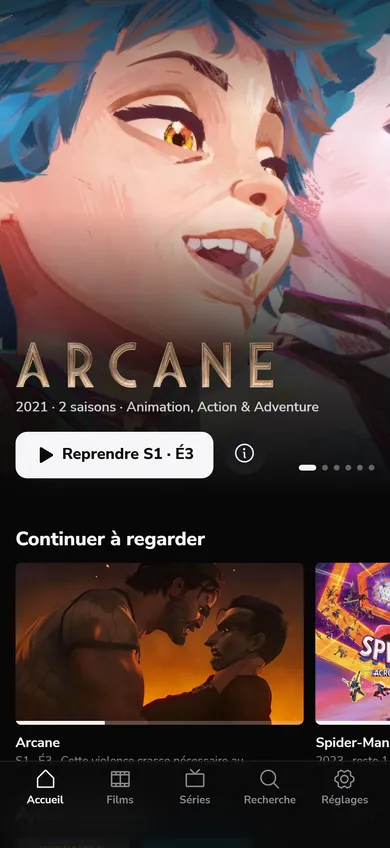
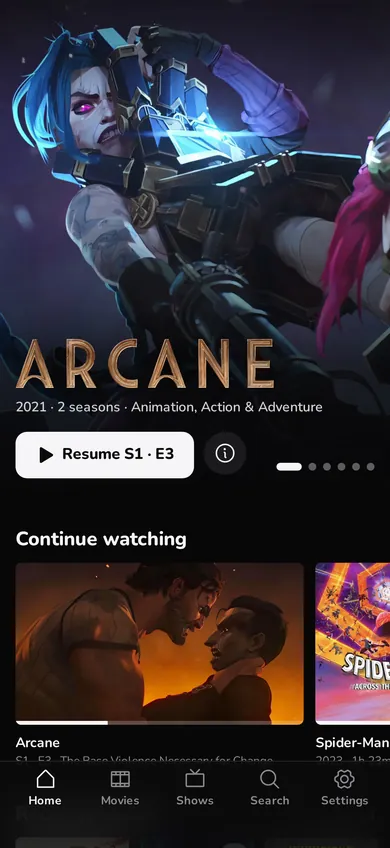
Site: the README's new English captures, Arcane's Home in the opening window
images.py leaves the README's still out: the opening keeps its own Piltover
illustration. Share cards redrawn from the new Home.

Claude-Session: https://claude.ai/code/session_012iLBHyQRRP69qbd1a2xrXm

diff --git a/site/en/index.html b/site/en/index.html
@@ -17,7 +17,7 @@
   <meta property="og:title" content="Mira: your Jellyfin library, like at the movies">
   <meta property="og:description" content="A free Jellyfin client for Windows, Mac, iPhone and Android. No account, no ads, and nothing leaves your server.">
   <meta property="og:url" content="https://miracinema.app/en/">
-  <meta property="og:image" content="https://miracinema.app/img/share-en.jpg?v=c2b7f2cbe6">
+  <meta property="og:image" content="https://miracinema.app/img/share-en.jpg?v=ecae6bff77">
   <meta property="og:image:width" content="1200">
   <meta property="og:image:height" content="630">
   <meta property="og:locale" content="en_US">
@@ -60,7 +60,7 @@
           </ul>
         </div>
         <div class="devices">
-          <img class="window" src="../img/windows-film-1600.webp" srcset="../img/windows-film-960.webp 960w, ../img/windows-film-1600.webp 1600w, ../img/windows-film-2400.webp 2400w" sizes="(max-width: 860px) 92vw, 56vw" width="2880" height="1800" alt="A film’s page in Mira for Windows, with Resume. The screenshots show the French interface.">
+          <img class="window" src="../img/windows-home-1600.webp" srcset="../img/windows-home-960.webp 960w, ../img/windows-home-1600.webp 1600w, ../img/windows-home-2400.webp 2400w" sizes="(max-width: 860px) 92vw, 56vw" width="2880" height="1800" alt="The Home page of Mira for Windows, with Arcane to resume">
           <div class="phone one" aria-hidden="true"><div class="screen"><img src="../img/web-home-720.webp" srcset="../img/web-home-390.webp 390w, ../img/web-home-720.webp 720w" sizes="(max-width: 860px) 32vw, 16vw" width="1206" height="2622" alt=""></div></div>
           <div class="phone two" aria-hidden="true"><div class="screen"><img src="../img/web-film-720.webp" srcset="../img/web-film-390.webp 390w, ../img/web-film-720.webp 720w" sizes="(max-width: 860px) 32vw, 16vw" width="1206" height="2622" alt=""></div></div>
         </div>

diff --git a/site/index.html b/site/index.html
@@ -17,7 +17,7 @@
   <meta property="og:title" content="Mira : ta bibliothèque Jellyfin, comme au cinéma">
   <meta property="og:description" content="Un client Jellyfin gratuit pour Windows, Mac, iPhone et Android. Sans compte, sans publicité, et rien ne quitte ton serveur.">
   <meta property="og:url" content="https://miracinema.app/">
-  <meta property="og:image" content="https://miracinema.app/img/share.jpg?v=827014fae3">
+  <meta property="og:image" content="https://miracinema.app/img/share.jpg?v=099fd6a0dd">
   <meta property="og:image:width" content="1200">
   <meta property="og:image:height" content="630">
   <meta property="og:locale" content="fr_FR">
@@ -60,7 +60,7 @@
           </ul>
         </div>
         <div class="devices">
-          <img class="window" src="img/windows-film-1600.webp" srcset="img/windows-film-960.webp 960w, img/windows-film-1600.webp 1600w, img/windows-film-2400.webp 2400w" sizes="(max-width: 860px) 92vw, 56vw" width="2880" height="1800" alt="La fiche d’un film dans Mira pour Windows, avec Reprendre">
+          <img class="window" src="img/windows-home-1600.webp" srcset="img/windows-home-960.webp 960w, img/windows-home-1600.webp 1600w, img/windows-home-2400.webp 2400w" sizes="(max-width: 860px) 92vw, 56vw" width="2880" height="1800" alt="L’Accueil de Mira pour Windows, avec Arcane à reprendre">
           <div class="phone one" aria-hidden="true"><div class="screen"><img src="img/web-home-720.webp" srcset="img/web-home-390.webp 390w, img/web-home-720.webp 720w" sizes="(max-width: 860px) 32vw, 16vw" width="1206" height="2622" alt=""></div></div>
           <div class="phone two" aria-hidden="true"><div class="screen"><img src="img/web-film-720.webp" srcset="img/web-film-390.webp 390w, img/web-film-720.webp 720w" sizes="(max-width: 860px) 32vw, 16vw" width="1206" height="2622" alt=""></div></div>
         </div>

diff --git a/tools/site/images.py b/tools/site/images.py
@@ -1,5 +1,6 @@
-"""Images of the showcase site (site/img) from the README's screenshots and the featured film's still (film-still.jpg):
-WebP at three widths (the share cards: tools/site/share.mjs).
+"""Images of the showcase site (site/img) from the README's screenshots: WebP at three widths (the share cards:
+tools/site/share.mjs). The opening's still (site/img/film-still-*.webp, Piltover, given by ogsas) is the site's own:
+the README's film-still.jpg is left out.
 
 Run from the repository's root after gallery.yml has refreshed docs/screenshots/readme: python3 tools/site/images.py
 """
@@ -8,14 +9,14 @@ from PIL import Image
 
 SOURCE = Path("docs/screenshots/readme")
 OUT = Path("site/img")
-WIDTHS = {"windows": (960, 1600, 2400), "web": (390, 720, 1080), "film": (640, 1280, 2000)}
-# The still fills the screen: its largest copy keeps its own width (2000, never resampled) and less compression.
-QUALITY = {"film": 90}
+WIDTHS = {"windows": (960, 1600, 2400), "web": (390, 720, 1080)}
 
 OUT.mkdir(parents=True, exist_ok=True)
 for path in sorted(SOURCE.glob("*.jpg")):
     image = Image.open(path).convert("RGB")
     kind = path.stem.split("-")[0]
+    if kind not in WIDTHS:
+        continue
     for width in WIDTHS[kind]:
         copy = image.resize((width, round(image.height * width / image.width)), Image.LANCZOS)
-        copy.save(OUT / f"{path.stem}-{width}.webp", "WEBP", quality=QUALITY.get(kind, 80), method=6)
+        copy.save(OUT / f"{path.stem}-{width}.webp", "WEBP", quality=80, method=6)
